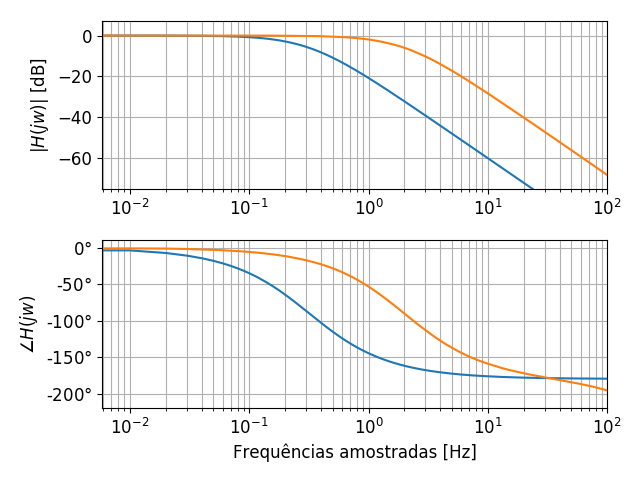
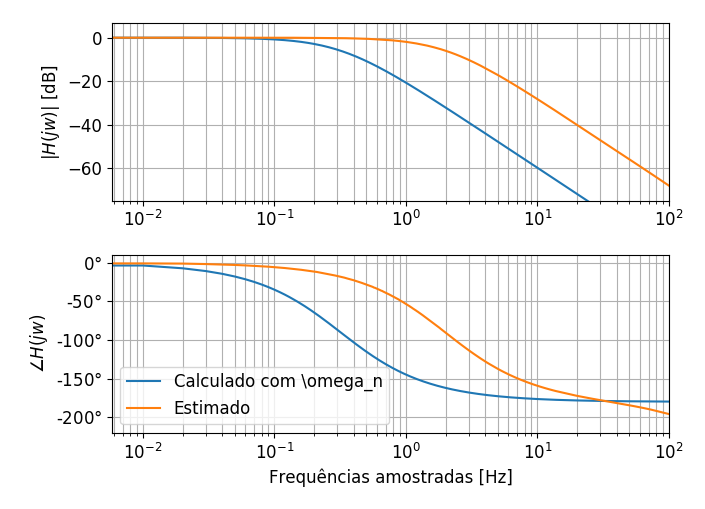
Final, bode C arrumado denovo

Changed region(s): [[0.0312, 0.5, 0.9688, 0.9688], [0.0312, 0.0312, 0.9688, 0.4688]]

diff --git a/TC2/develop/tarefa2.py b/TC2/develop/tarefa2.py
@@ -94,7 +94,7 @@ axs2[1].set_ylim((-220,10))
 axs2[1].grid(which='both')
 axs2[1].yaxis.set_major_formatter(StrMethodFormatter(r'{x:.0f}$\degree$'))
 
-
+plt.legend()
 plt.tight_layout()
 plt.savefig('../images/bodec.png')
 
